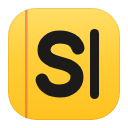
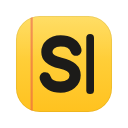
Prepare 0.5.1 for the Chrome Web Store
- Add a privacy policy (PRIVACY.md) and link it from the README
- Pad the 128px icon to the store's 96px artwork with 16px margin
- Add homepage_url pointing at this repo
- Add scripts/build-store-zip.sh to package only the runtime files

diff --git a/PRIVACY.md b/PRIVACY.md
@@ -1,0 +1,41 @@
+# Scratcher privacy policy
+
+Last updated: October 29, 2026
+
+Scratcher is a text pad that lives in your browser's side panel. This page explains what it does with your information.
+
+## What Scratcher stores
+
+- **The text in your pad**, which you type, paste, drop in, or send from a page with the right-click menu.
+- **Where you left off**, such as the scroll position and cursor, so the pad reopens in the same place.
+
+Both are kept in your browser's local extension storage (`chrome.storage.local`) on your device. They aren't synced to your account or other devices.
+
+## What Scratcher doesn't do
+
+- It doesn't send your text or any other data to the developer or to any server. It makes no network requests.
+- It can't read the pages you visit. It only gets text you choose to send it, by selecting text and choosing Send to Scratcher.
+- It doesn't use analytics, ads, tracking or cookies.
+- It doesn't sell, share or transfer your data to anyone.
+
+## Read aloud
+
+Read aloud uses the speech voices your browser provides. Some browsers offer online voices that send the text being spoken to the browser maker's speech service. That's handled by your browser under its own privacy policy, not by Scratcher.
+
+## Copy and paste
+
+Copy puts your text on the clipboard only when you click Copy or use its shortcut. Scratcher only sees what's on your clipboard when you paste into the pad.
+
+## Deleting your data
+
+Click Clear to empty the pad. Removing Scratcher from your browser deletes everything it stored.
+
+## Permissions
+
+- **Side panel**: shows the pad beside the page you're on.
+- **Storage**: saves your text on your device.
+- **Context menus**: adds Send to Scratcher to the right-click menu for selected text.
+
+## Contact
+
+Questions about this policy: open an issue at https://github.com/rcweston90/scratcher/issues.

diff --git a/README.md b/README.md
@@ -43,7 +43,7 @@ To update, pull the latest and click the reload arrow on Scratcher's card.
 
 ## Privacy
 
-Permissions are side panel, storage and the right-click menu. Scratcher can't read the pages you visit; it only gets text you send to it. Your text is stored locally in the browser and never synced or sent anywhere.
+Permissions are side panel, storage and the right-click menu. Scratcher can't read the pages you visit; it only gets text you send to it. Your text is stored locally in the browser and never synced or sent anywhere. Full [privacy policy](PRIVACY.md).
 
 ## Credit
 
